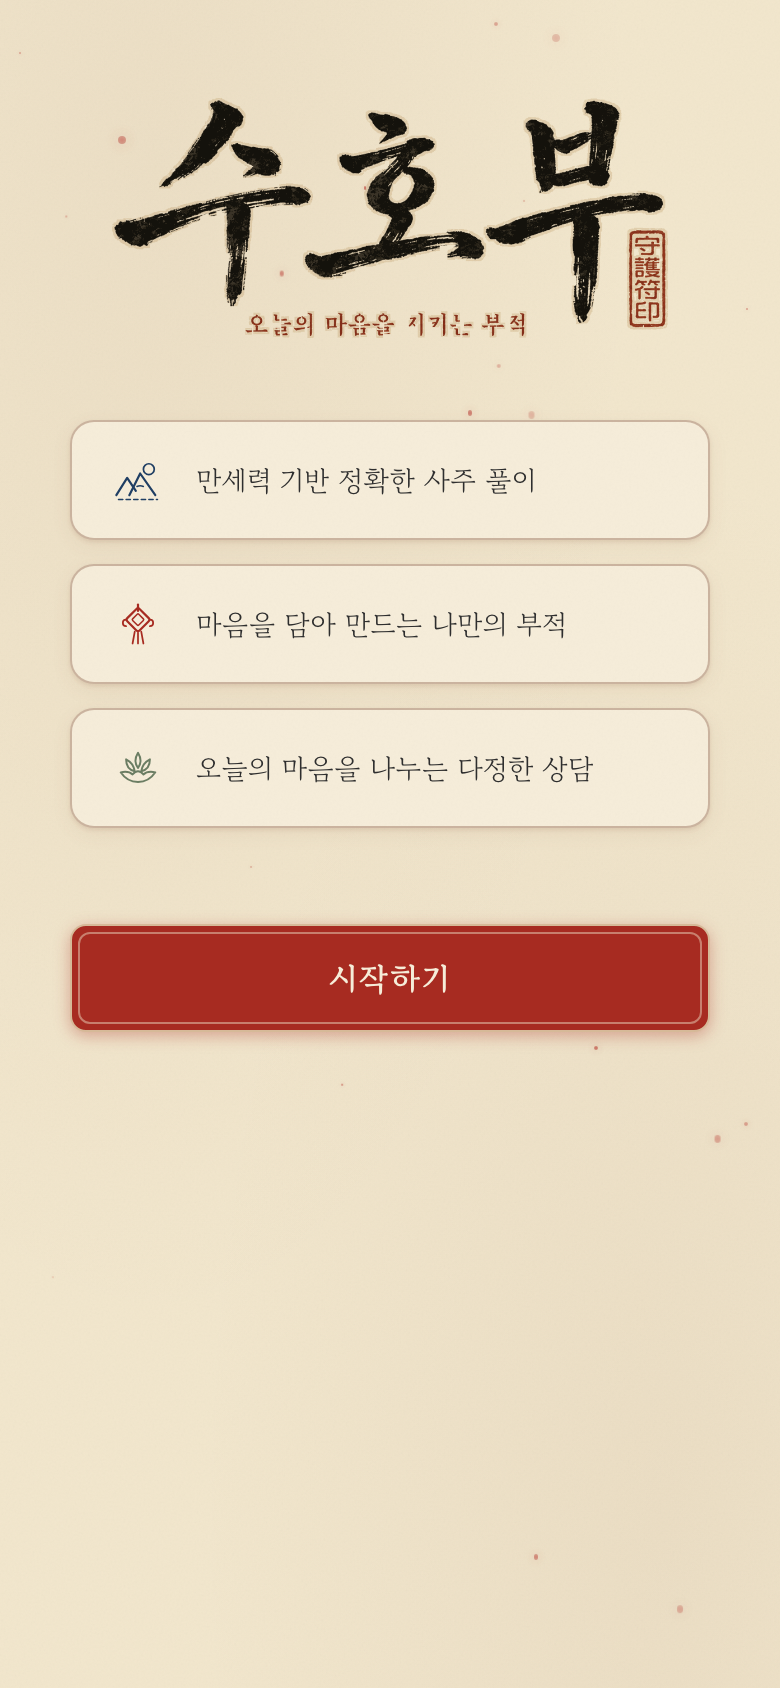
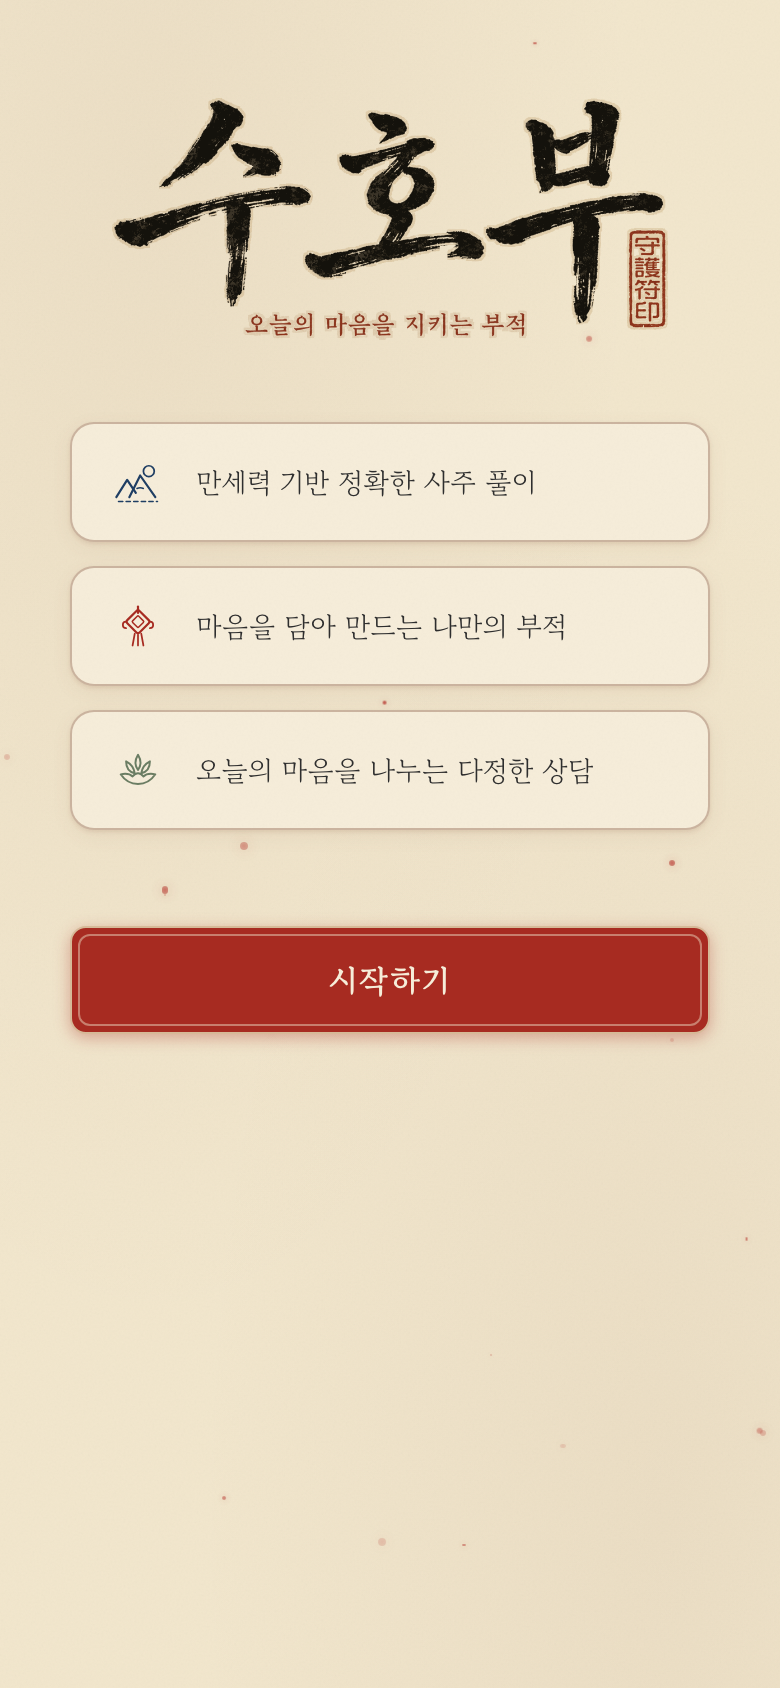
온보딩 화면 다듬기 — 하단 남색 제거 + 워드마크 태그라인 진하게
- body 배경을 구 다크 그라데이션에서 한지색으로 교체 (스크롤 바운스·하단 틈에서 남색 비침 제거)
- 워드마크 태그라인 "오늘의 마음을 지키는 부적"을 원본에서 감마 부스트로 재추출해 가독성 향상

Changed region(s): [[0.0923, 0.2464, 0.8923, 0.4929], [0.0923, 0.5237, 0.8923, 0.6161], [0.5538, 0.4621, 0.5846, 0.4929]]

diff --git a/src/app/globals.css b/src/app/globals.css
@@ -54,8 +54,9 @@ html {
 body {
   font-family: "Pretendard", "Apple SD Gothic Neo", "Malgun Gothic",
     -apple-system, BlinkMacSystemFont, sans-serif;
-  background: linear-gradient(165deg, var(--color-bg-start) 0%, var(--color-bg-end) 100%);
-  color: var(--color-text-primary);
+  /* 한지색 — 스크롤 바운스·하단 틈에서 다크 배경이 비치지 않게 (구 다크 그라데이션 제거) */
+  background: var(--color-hanji);
+  color: var(--color-meok);
   min-height: 100dvh;
   overflow-x: hidden;
   padding-top: env(safe-area-inset-top);
